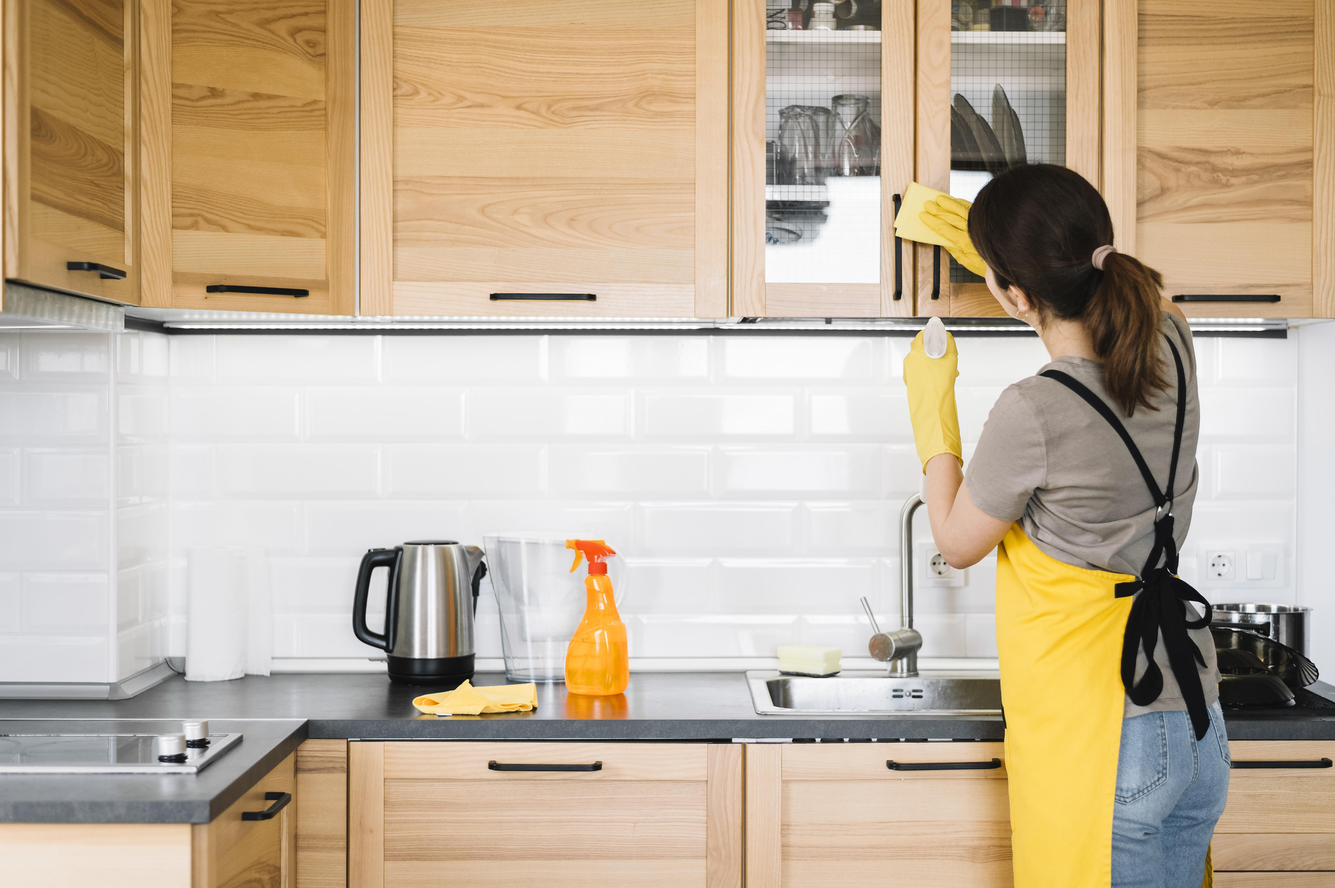
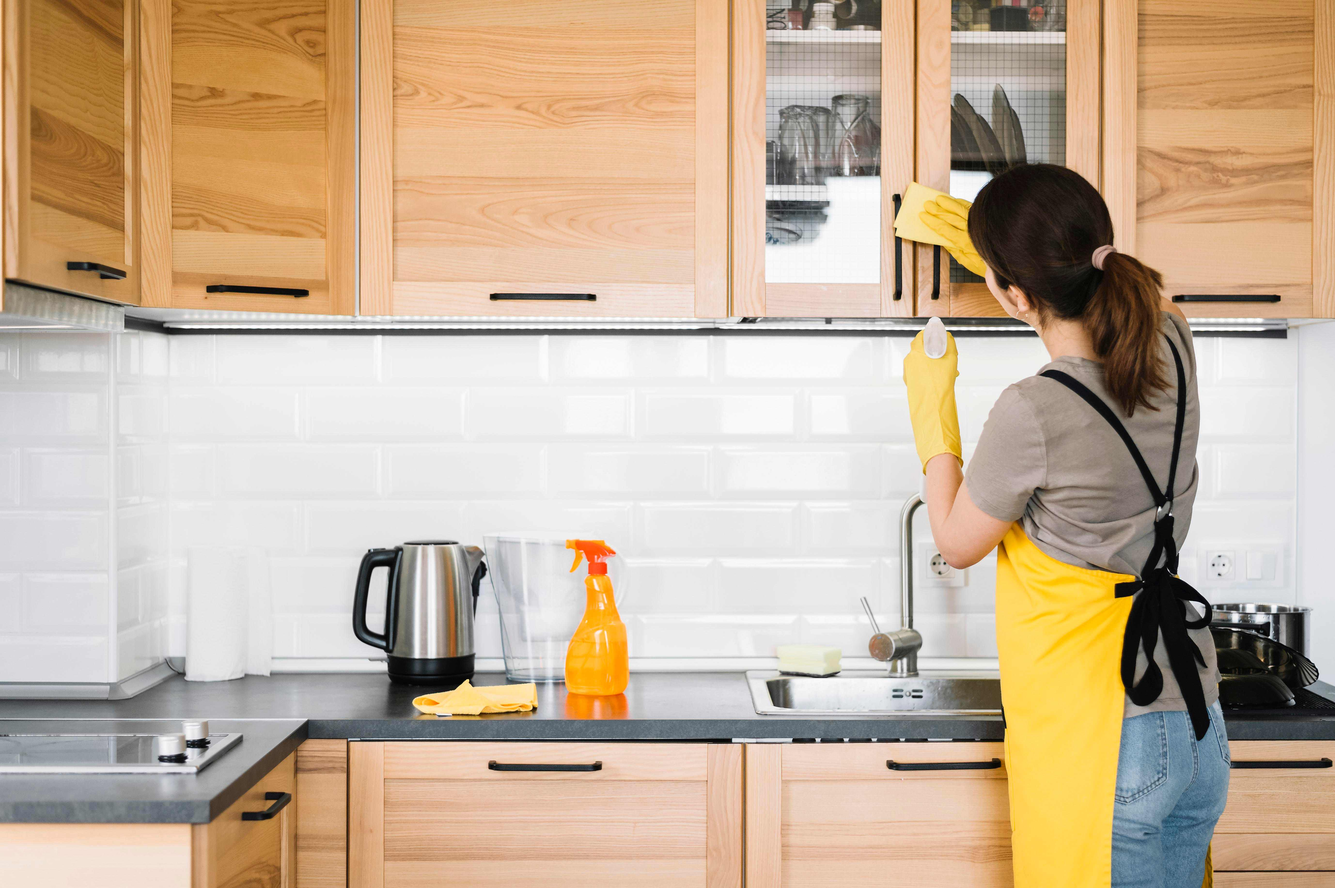
decrese image size

Changed region(s): [[0.749, 0.5908, 0.8427, 0.7463], [0.4057, 0.653, 0.4682, 0.8085]]

diff --git a/script.js b/script.js
@@ -49,3 +49,9 @@ function headerAnimation() {
   });
 }
 headerAnimation();
+
+function Animation(){
+  const tl = 
+
+}
+Animation()
